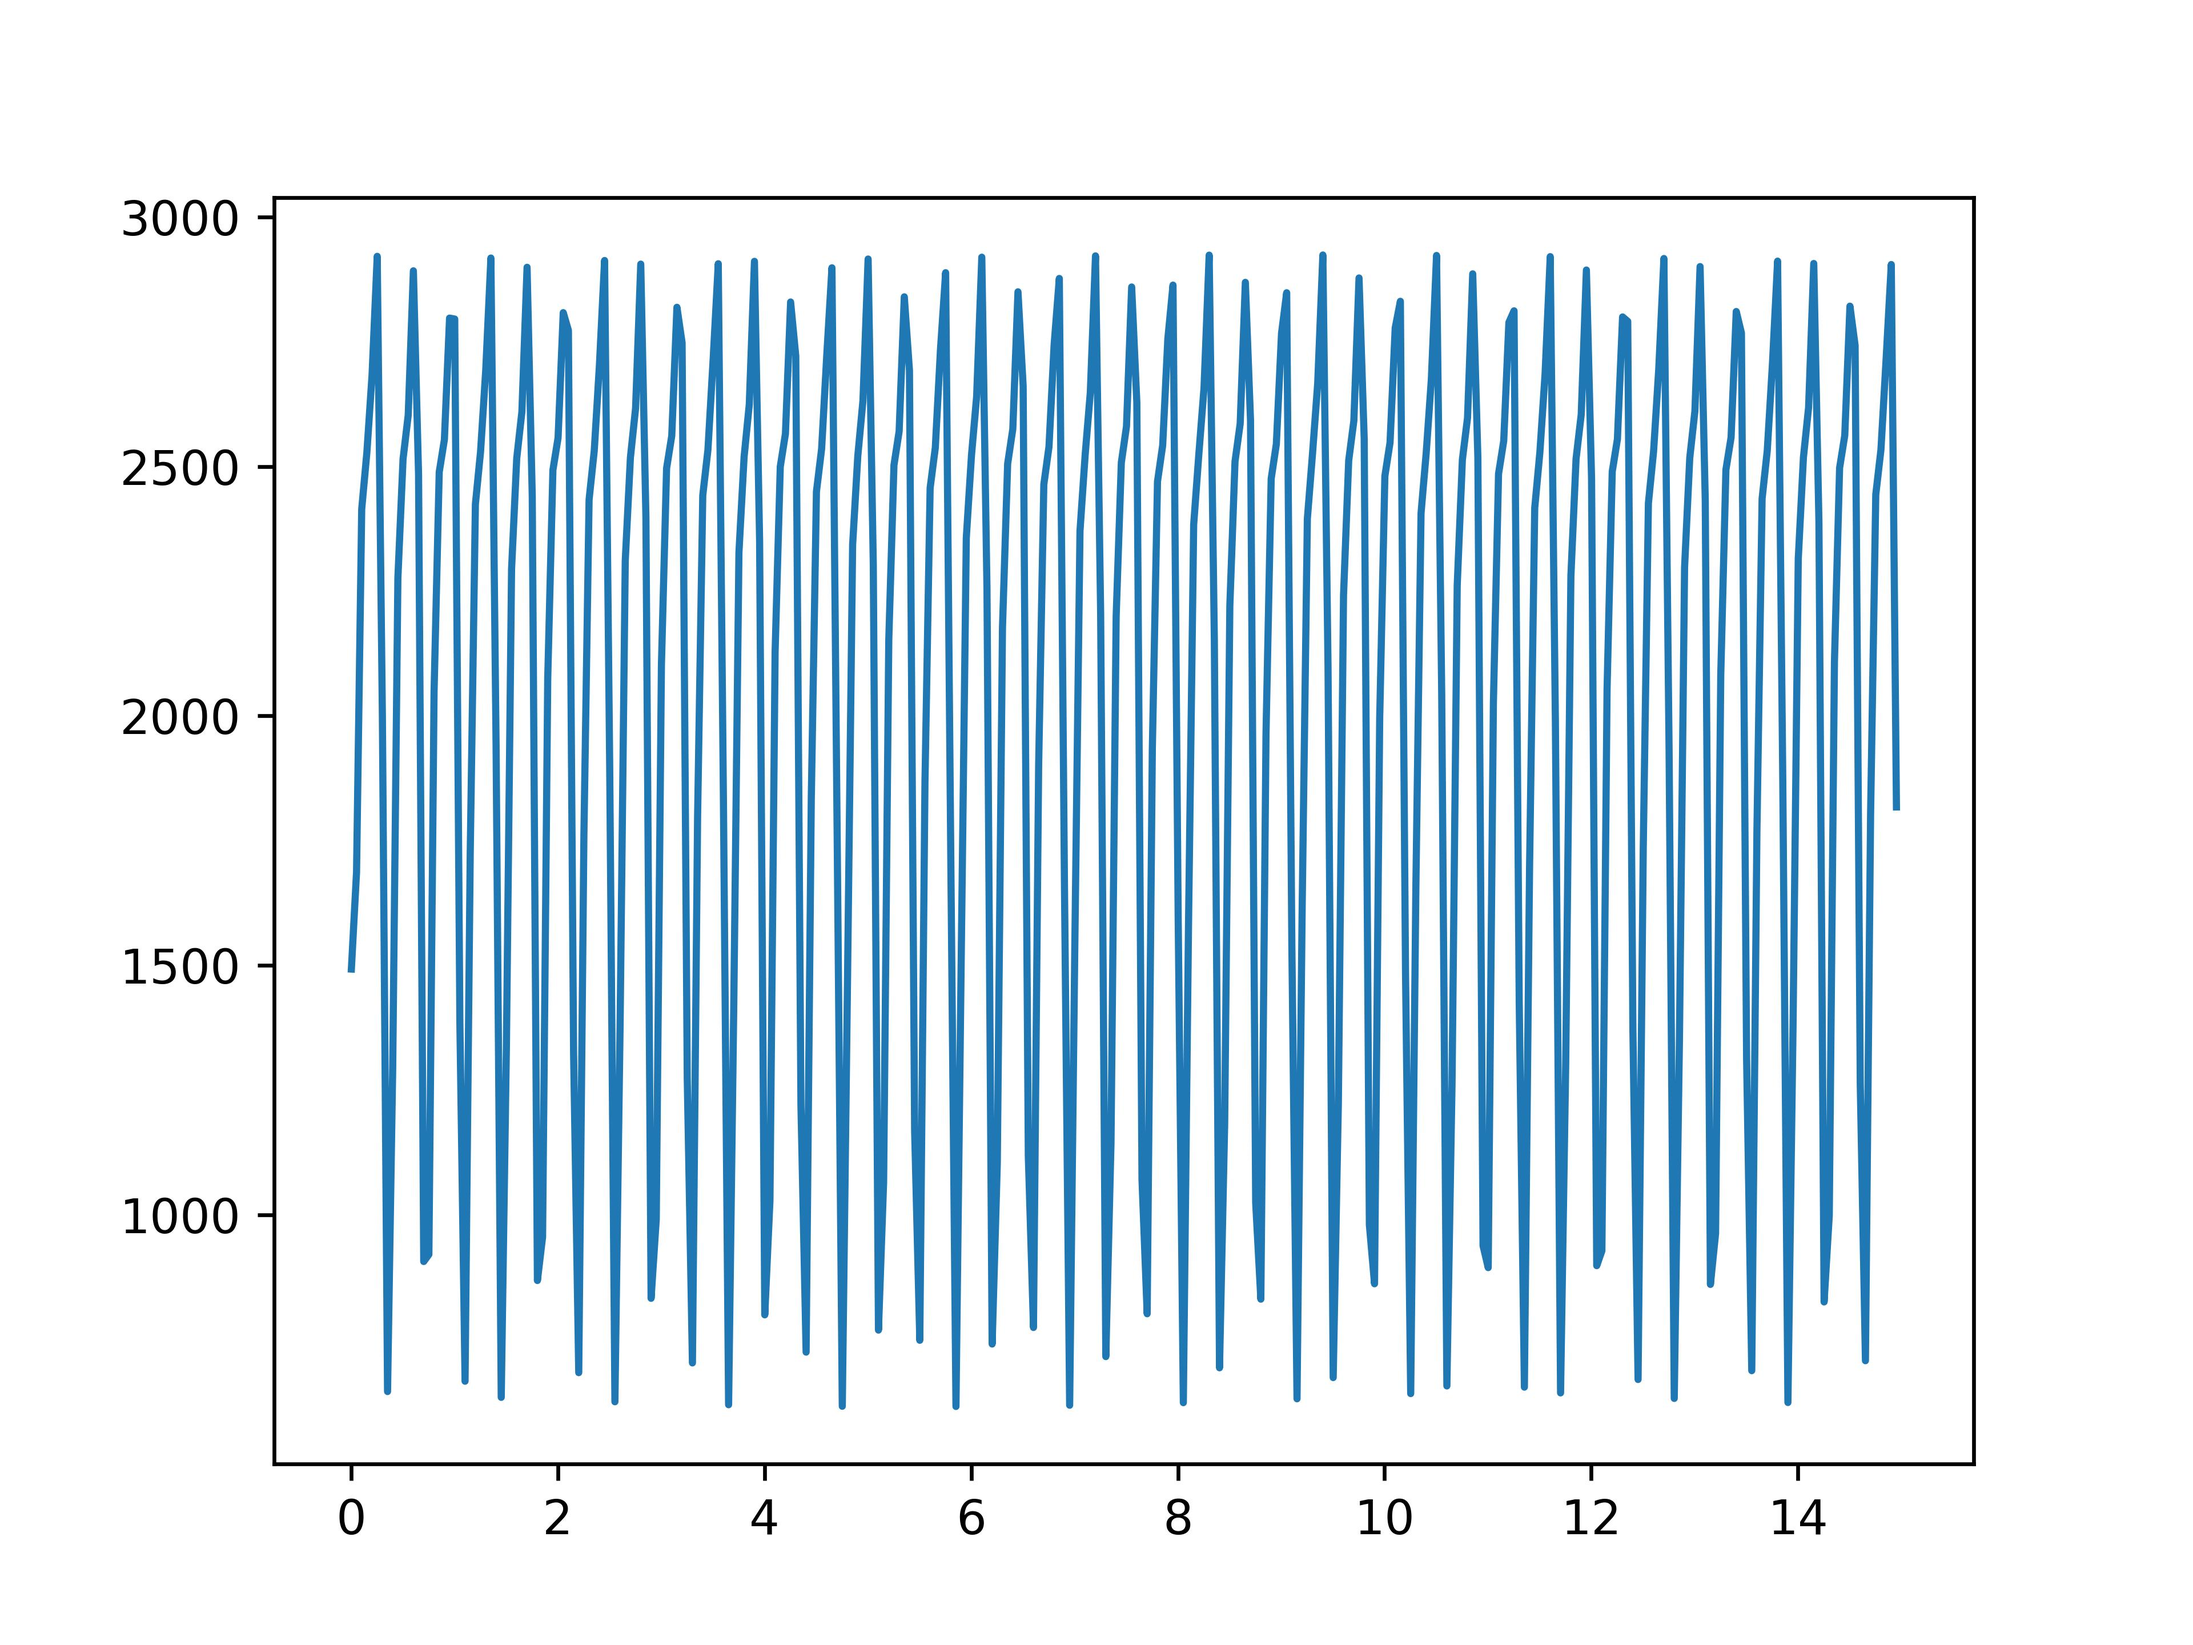
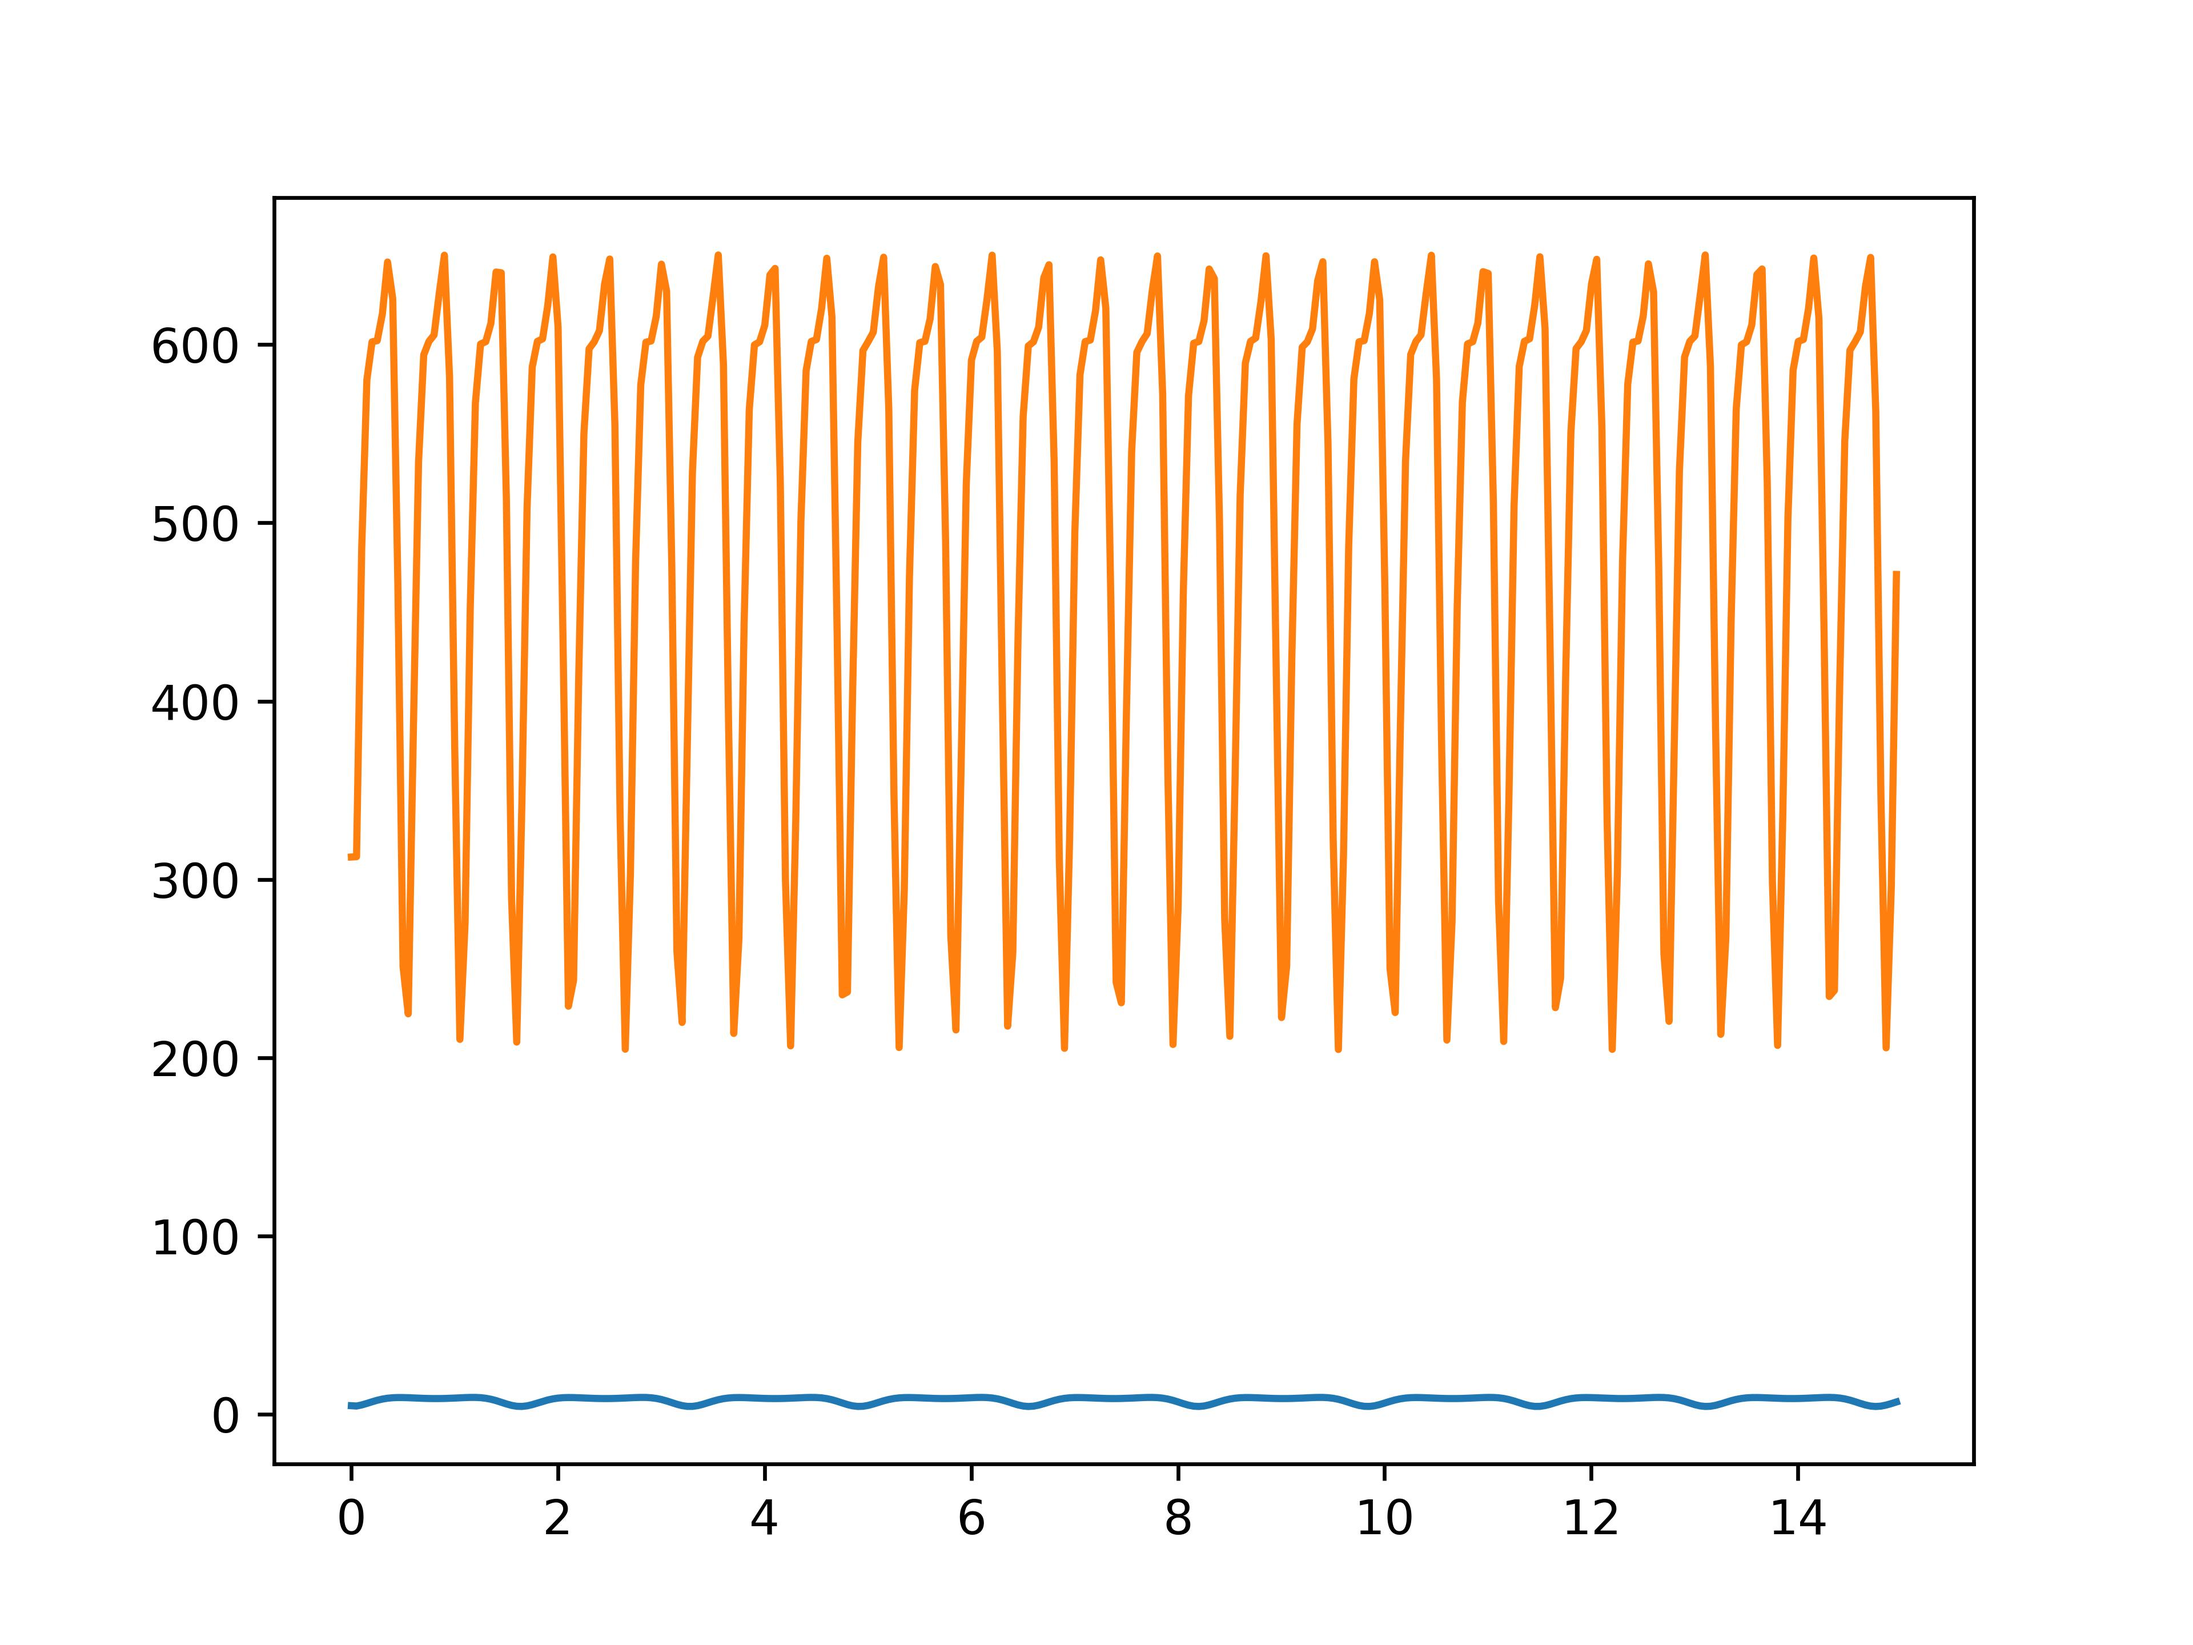
PrototypeMD

diff --git a/main.py b/main.py
@@ -67,7 +67,7 @@ class PrototypeMD(BaseMolecularDynamic):
         return v**2 + 0.5 - q**2  + 0.5 * q**4
 
 
-md = PrototypeMD(N = 1, L = 2, q0 = np.array([7]))
+md = PrototypeMD(N = 2, L = 2, q0 = np.array([2,5]))
 N_steps = 300; dt = 0.05
 md.simulate(dt = dt, steps = N_steps)
 
